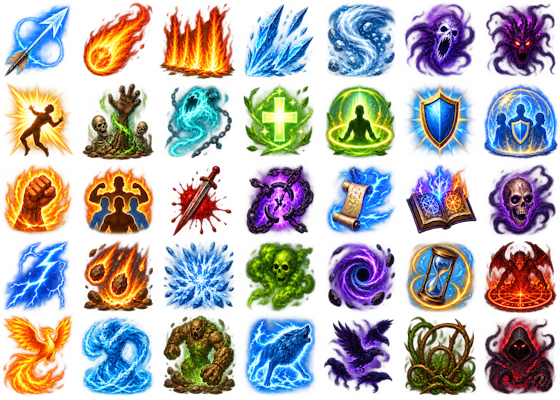
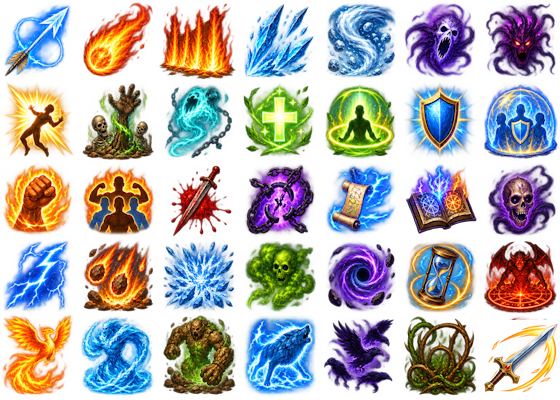
Quick attack

Changed region(s): [[0.85, 0.78, 1.0, 0.99]]

diff --git a/app/[boardId]/[mapId]/[playerId]/player-spells.tsx b/app/[boardId]/[mapId]/[playerId]/player-spells.tsx
@@ -3,7 +3,7 @@ import Swal from 'sweetalert2'
 import { Dialog, Popover } from 'radix-ui';
 import { getSpellActionCost, SpellIds, spells } from '@/lib/games/spells';
 import styles from './player-spells.module.css';
-import { PlayerAction, PlayerActionCast, PlayerActionsState, PlayerActionType, PlayerInventoryState, PlayerState } from '@/lib/store/types';
+import { PlayerAction, PlayerActionAttack, PlayerActionCast, PlayerActionType, PlayerState } from '@/lib/store/types';
 import { SpellDef, SpellTargetType } from '@/lib/games/types';
 import EntityList, { EntityItemClass, EntityItemDetail } from './entity-list';
 import { getSwalDefaultOptions } from '@/app/swal';
@@ -25,6 +25,7 @@ export default function PlayerSpells({
 }) {
   const [isOpen, setIsOpen] = useState(false);
   const [targetSpell, setTargetSpell] = useState<SpellDef | null>(null);
+  const [isAttackTargetOpen, setIsAttackTargetOpen] = useState(false);
   
   const castSpell = async (spell: SpellDef, targetId?: string) => {
     await addNewAction({
@@ -33,6 +34,28 @@ export default function PlayerSpells({
       spellId: spell.id,
       targetId,
     } as Omit<PlayerActionCast, 'id'>);
+  };
+
+  const attackTargets = entities.filter(entity =>
+    entity.className === EntityItemClass.enemy && entity.health > 0
+  );
+
+  const attackMonster = async (target: EntityItemDetail) => {
+    setIsAttackTargetOpen(false);
+    await addNewAction({
+      type: PlayerActionType.Attack,
+      description: `Attack ${target.name}`,
+      target: target.id,
+    } as Omit<PlayerActionAttack, 'id'>);
+  };
+
+  const onAttack = async () => {
+    if (attackTargets.length === 1) {
+      await attackMonster(attackTargets[0]);
+      return;
+    }
+
+    setIsAttackTargetOpen(true);
   };
 
   const onCastSpell = async (spellId: string) => {
@@ -101,7 +124,7 @@ export default function PlayerSpells({
       });
 
   return (<>
-    <Dialog.Root open={isOpen} onOpenChange={setIsOpen}>
+    { playerSpells.length > 0 && <Dialog.Root open={isOpen} onOpenChange={setIsOpen}>
       <Dialog.Trigger asChild>
         <button type="button" className={styles.spellsButton}>
           <span>Spells</span>
@@ -137,7 +160,7 @@ export default function PlayerSpells({
           </Dialog.Close>
         </Dialog.Content>
       </Dialog.Portal>
-    </Dialog.Root>
+    </Dialog.Root> }
     <Dialog.Root open={targetSpell !== null} onOpenChange={open => { if (!open) setTargetSpell(null); }}>
       <Dialog.Portal>
         <Dialog.Overlay className="DialogOverlay" />
@@ -152,8 +175,28 @@ export default function PlayerSpells({
         </Dialog.Content>
       </Dialog.Portal>
     </Dialog.Root>
-    
+
     <div className={styles.recentSpells}>
+      <Popover.Root modal={true} open={isAttackTargetOpen} onOpenChange={setIsAttackTargetOpen}>
+        <Popover.Trigger asChild>
+          <button
+            type="button"
+            className={`${styles.spellIcon} ${attackTargets.length === 0 || playerStats.actionsPerTurn.attack > actionPointsLeft ? styles.disabledSpellIcon : ''}`}
+            aria-label="Attack"
+            title="Attack"
+            style={{ backgroundPosition: `-${6 * 40}px -${4 * 40}px` }}
+            onClick={onAttack}
+          ></button>
+        </Popover.Trigger>
+        { attackTargets.length > 1 &&
+          <Popover.Portal>
+            <Popover.Content className="PopoverContent">
+              <EntityList entities={attackTargets} onClickEntity={attackMonster} />
+              <Popover.Arrow className="PopoverArrow" width={15} height={10} />
+            </Popover.Content>
+          </Popover.Portal>
+        }
+      </Popover.Root>
       { recentSpells.map(({spell, canCast}) =>
         <button
           key={spell.id}

diff --git a/app/[boardId]/[mapId]/[playerId]/player-spells.module.css b/app/[boardId]/[mapId]/[playerId]/player-spells.module.css
@@ -1,9 +1,26 @@
 .recentSpells {
+  margin-top: 10px;
+
+  .attackIcon,
   .spellIcon {
     width: 40px;
     height: 40px;
     margin: 0 5px 0 0;
     background-size: 280px 200px;
+  }
+
+  .attackIcon {
+    padding: 0;
+    border: 0;
+    color: var(--color-text);
+    background: transparent;
+    font-size: 30px;
+  }
+
+  .attackIcon:hover,
+  .attackIcon:active,
+  .attackIcon:focus-visible {
+    background: transparent;
   }
   
   .spellIcon:hover,

diff --git a/app/[boardId]/[mapId]/[playerId]/player-location.tsx b/app/[boardId]/[mapId]/[playerId]/player-location.tsx
@@ -234,7 +234,7 @@ export default function PlayerLocation(
         </button>
       }
     </div><div className={styles.actionButtonGroup2}>
-      { playerStats && playerState.spells.length > 0 &&
+      { playerStats &&
         <PlayerSpells
           playerSpells={playerState.spells}
           player={playerState}

diff --git a/app/[boardId]/[mapId]/[playerId]/player-location.module.css b/app/[boardId]/[mapId]/[playerId]/player-location.module.css
@@ -51,7 +51,7 @@
   border-left: 2px solid var(--border-stone);
 
   button {
-    margin: 7px 0;
+    margin: 7px 0 0 0;
   }
 }
 
